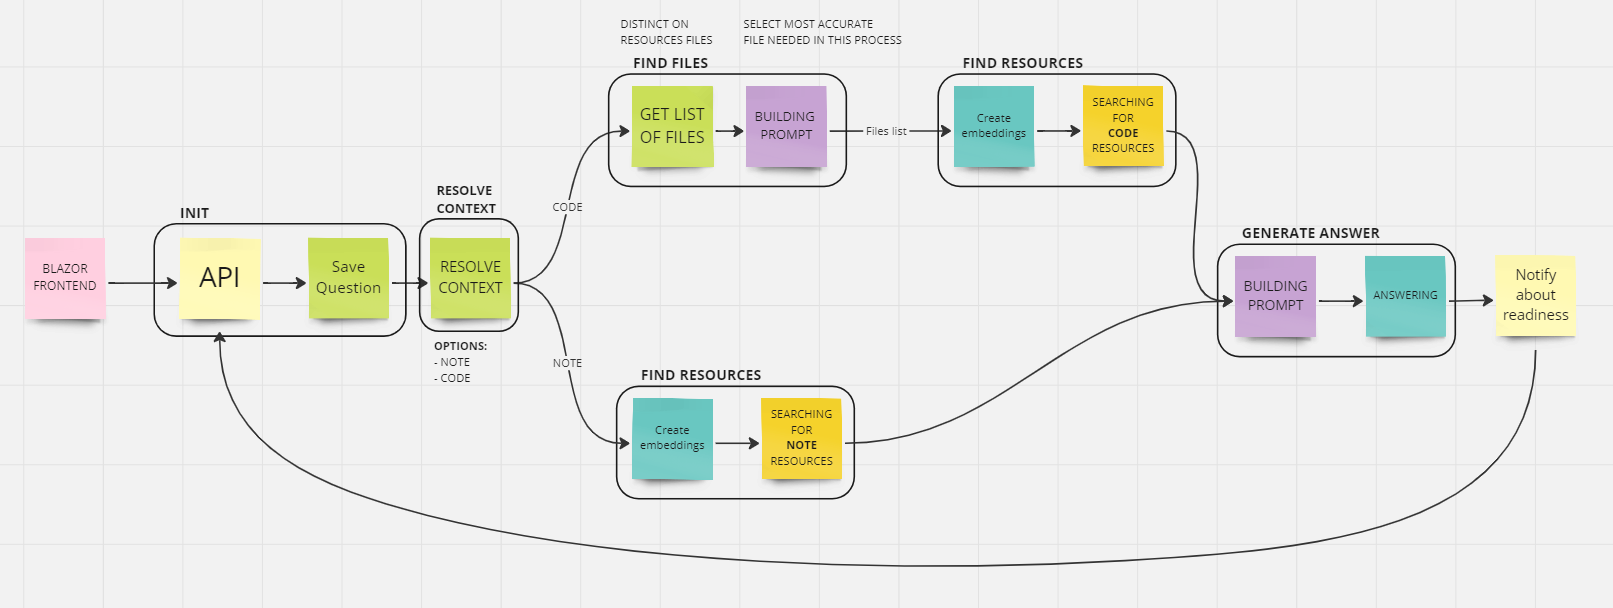
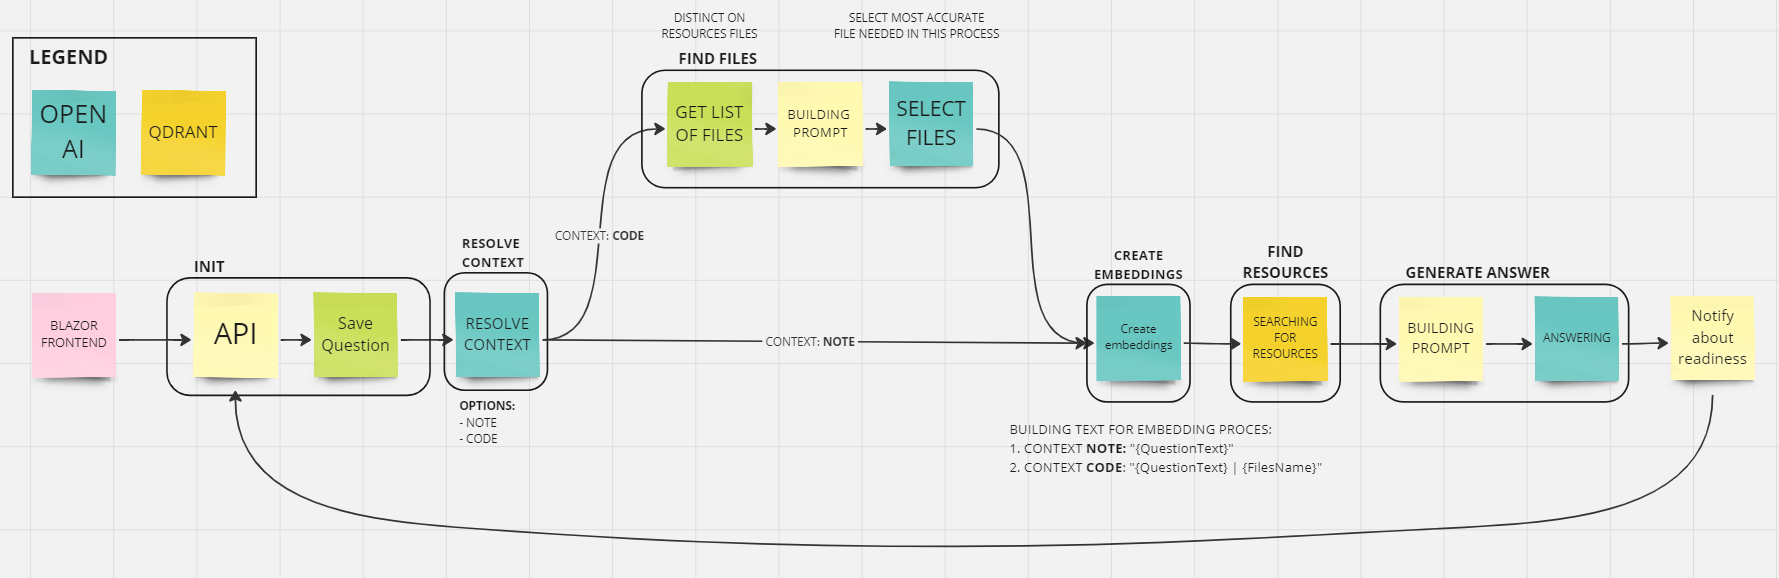
82: Added seperate flow for code generation

diff --git a/API/ASSISTENTE.Infrastructure/Services/QuestionOrchestrator.cs b/API/ASSISTENTE.Infrastructure/Services/QuestionOrchestrator.cs
@@ -14,7 +14,6 @@ using ASSISTENTE.Infrastructure.Qdrant;
 using ASSISTENTE.Infrastructure.Qdrant.Models;
 using ASSISTENTE.Language.Enums;
 using ASSISTENTE.Language.Identifiers;
-
 using AnswerEntity = ASSISTENTE.Domain.Entities.Answers.Answer;
 
 namespace ASSISTENTE.Infrastructure.Services;
@@ -43,30 +42,7 @@ public sealed class QuestionOrchestrator(
             .Check(question.AddContext)
             .Check(_ => questionRepository.UpdateAsync(question));
     }
-
-    public async Task<Result> FindResources(Question question)
-    {
-        return await EmbeddingText.Create(question.Text) // 3. Create embedding
-            .Bind(embeddingClient.GetAsync)
-            .Check(dto => question.AddEmbeddings(dto.Embeddings))
-            .Bind(dto =>
-            {
-                return question.GetContext()
-                    .Bind(context => VectorDto.Create(CollectionName(context), dto.Embeddings));
-            })
-            .Bind(qdrantService.SearchAsync) // 4. Search for resources
-            .Bind(searchResult =>
-            {
-                var resourceIds = searchResult.Select(x => new ResourceId(x.ResourceId));
-
-                return resourceRepository
-                    .FindByResourceIdsAsync(resourceIds)
-                    .ToResult(KnowledgeServiceErrors.NotFound.Build());
-            })
-            .Check(question.AddResources) // 5. Save selected resources to question (save in DB for audit purpose)
-            .Check(_ => questionRepository.UpdateAsync(question));
-    }
-
+    
     public async Task<Result> FindFiles(Question question)
     {
         return await question.GetContext()
@@ -75,30 +51,60 @@ public sealed class QuestionOrchestrator(
                 .GetFileNames(resourceType)
                 .ToResult(KnowledgeServiceErrors.NotFound.Build())
             )
-            .Bind(fileNames => PromptInput.Create(question.Text, fileNames, PromptType.Files))
+            .Map(fileNames => string.Join(Environment.NewLine, fileNames))
+            .Bind(promptContext => PromptInput.Create(question.Text, promptContext, PromptType.Files))
             .Bind(promptGenerator.GeneratePrompt)
             .Bind(Prompt.Create)
             .Bind(async prompt =>
             {
                 var answer = await llmClient.GenerateAnswer(prompt)
-                    .Check(answer => QuestionFile.Create(answer.Text) // TODO: Validate answer
+                    .Check(answer => QuestionFile.Create(answer.Text)
                         .Check(question.AddFiles));
-                
+
                 return answer;
             })
             .Check(_ => questionRepository.UpdateAsync(question))
             .Map(answer => answer.Text);
     }
-
-    public async Task<Result<string>> GenerateAnswer(Question question)
+    
+    public async Task<Result> CreateEmbedding(Question question)
     {
-        var contextContent = question.Resources.Select(x => x.Resource).Select(x => x.Content);
-
+        return await question.BuildEmbeddableText()
+            .Bind(EmbeddingText.Create) // 3. Create embedding
+            .Bind(embeddingClient.GetAsync)
+            .Check(dto => question.AddEmbeddings(dto.Embeddings))
+            .Check(_ => questionRepository.UpdateAsync(question));
+    }
+    
+    public async Task<Result> FindResources(Question question)
+    {
         return await question.GetContext()
             .Bind(context =>
             {
-                return GetPromptType(context) // 6. Generate prompt
-                    .Bind(promptType => PromptInput.Create(question.Text, contextContent, promptType))
+                return question.GetEmbeddings()
+                    .Bind(embeddings => VectorDto.Create(CollectionName(context), embeddings))
+                    .Bind(qdrantService.SearchAsync) // 4. Search for resources
+                    .Bind(searchResult =>
+                    {
+                        var resourceIds = searchResult.Select(x => new ResourceId(x.ResourceId));
+
+                        return resourceRepository
+                            .FindByResourceIdsAsync(resourceIds)
+                            .ToResult(KnowledgeServiceErrors.NotFound.Build());
+                    })
+                    .Check(question.AddResources) // 5. Save selected resources to question
+                    .Check(_ => questionRepository.UpdateAsync(question));
+            });
+    }
+
+    public async Task<Result<string>> GenerateAnswer(Question question)
+    {
+        return await question.GetContext()
+            .Bind(GetPromptType)
+            .Bind(promptType =>
+            {
+                return question.BuildContext()
+                    .Bind(promptContext => PromptInput.Create(question.Text, promptContext, promptType)) // 6. Generate prompt
                     .Bind(promptGenerator.GeneratePrompt)
                     .Bind(Prompt.Create)
                     .Bind(prompt =>
@@ -112,8 +118,7 @@ public sealed class QuestionOrchestrator(
                                     answer.Audit.PromptTokens,
                                     answer.Audit.CompletionTokens
                                 )
-                                .Check(question.AddAnswer));
-                        // 8. Save answer to question (save in DB for audit purpose)
+                                .Check(question.AddAnswer)); // 8. Save answer to question 
 
                         return answer;
                     })
@@ -130,10 +135,10 @@ public sealed class QuestionOrchestrator(
 
         var result = await Prompt.Create(promptText)
             .Bind(llmClient.GenerateAnswer);
-        
+
         if (result.IsFailure)
             return Result.Failure<TContext>(result.Error);
-        
+
         try
         {
             var source = (TContext)Enum.Parse(typeof(TContext), result.Value.Text);

diff --git a/API/ASSISTENTE.Application/Handlers/Questions/Commands/CreateEmbeddingsCommand.cs b/API/ASSISTENTE.Application/Handlers/Questions/Commands/CreateEmbeddingsCommand.cs
@@ -1,0 +1,44 @@
+using ASSISTENTE.Application.Abstractions.Clients;
+using ASSISTENTE.Application.Abstractions.Interfaces;
+using ASSISTENTE.Application.Handlers.Bases;
+using ASSISTENTE.Domain.Entities.Questions;
+using ASSISTENTE.Domain.Entities.Questions.Interfaces;
+using ASSISTENTE.Language.Enums;
+using ASSISTENTE.Language.Identifiers;
+using CSharpFunctionalExtensions;
+using MediatR;
+using Microsoft.Extensions.Logging;
+
+namespace ASSISTENTE.Application.Handlers.Questions.Commands
+{
+    public sealed class CreateEmbeddingsCommand : IRequest<Result>
+    {
+        private CreateEmbeddingsCommand(QuestionId questionId)
+        {
+            QuestionId = questionId;
+        }
+
+        public QuestionId QuestionId { get; }
+
+        public static CreateEmbeddingsCommand Create(QuestionId questionId)
+        {
+            return new CreateEmbeddingsCommand(questionId);
+        }
+    }
+
+    public class CreateEmbeddingsCommandHandler(
+        IQuestionOrchestrator questionOrchestrator,
+        IQuestionRepository questionRepository,
+        IAssistenteClientInternal clientInternal,
+        ILogger<CreateEmbeddingsCommand> logger) : QuestionCommandBase<CreateEmbeddingsCommand>(logger, clientInternal)
+    {
+        protected override async Task<Result> HandleAsync(Question question)
+            => await questionOrchestrator.CreateEmbedding(question);
+
+        protected override async Task<Maybe<Question>> GetQuestionAsync(CreateEmbeddingsCommand request)
+            => await questionRepository.GetByIdAsync(request.QuestionId);
+
+        protected override QuestionProgress InitialProgress => QuestionProgress.CreatingEmbeddings;
+        protected override QuestionProgress FinalProgress => QuestionProgress.EmbeddingsCreated;
+    }
+}

diff --git a/API/ASSISTENTE.Domain/Entities/Questions/Question.cs b/API/ASSISTENTE.Domain/Entities/Questions/Question.cs
@@ -82,6 +82,8 @@ public sealed class Question : AuditableEntity<QuestionId>
     {
         Embeddings = embeddings.ToList();
 
+        RaiseEvent(new EmbeddingsCreatedEvent(Id));
+
         return Result.Success();
     }
 
@@ -112,9 +114,34 @@ public sealed class Question : AuditableEntity<QuestionId>
             ? Context.ToString()!
             : Result.Failure<string>(QuestionErrors.ContextNotProvided.Build());
     }
+    
+    public Result<List<float>> GetEmbeddings()
+    {
+        return Embeddings ?? Result.Failure<List<float>>(QuestionErrors.EmbeddingsNotCreated.Build());
+    }
 
     public Result<string> GetAnswer()
     {
         return Answer?.Text ?? Result.Failure<string>(QuestionErrors.AnswerNotExist.Build());
+    }
+
+    public Result<string> BuildEmbeddableText()
+    {
+        var fileNames = Files.Select(x => x.Text);
+        
+        return Context switch
+        {
+            QuestionContext.Note => Text,
+            QuestionContext.Code => $"{Text} | {string.Join(", ", fileNames)}",
+            QuestionContext.Error => Result.Failure<string>(QuestionErrors.WrongContext.Build()),
+            _ => Result.Failure<string>(QuestionErrors.ContextNotProvided.Build())
+        };
+    }
+    
+    public Result<string> BuildContext()
+    {
+        var resourcesContent = Resources.Select(x => x.Resource).Select(x => x.Content);
+
+        return string.Join(Environment.NewLine, resourcesContent);
     }
 }

diff --git a/API/ASSISTENTE.Infrastructure.PromptGenerator/ValueObjects/PromptInput.cs b/API/ASSISTENTE.Infrastructure.PromptGenerator/ValueObjects/PromptInput.cs
@@ -5,19 +5,19 @@ namespace ASSISTENTE.Infrastructure.PromptGenerator.ValueObjects;
 
 public sealed class PromptInput
 {
-    private PromptInput(string prompt, IEnumerable<string> context, PromptType type)
+    private PromptInput(string question, string context, PromptType type)
     {
-        Prompt = prompt;
+        Question = question;
         Context = context;
         Type = type;
     }
     
-    public string Prompt { get; }
-    public IEnumerable<string> Context { get; }
+    public string Question { get; }
+    public string Context { get; }
     public PromptType Type { get; }
     
-    public static Result<PromptInput> Create(string prompt, IEnumerable<string> context, PromptType type)
+    public static Result<PromptInput> Create(string question, string context, PromptType type)
     {
-        return new PromptInput(prompt, context, type);
+        return new PromptInput(question, context, type);
     }
 }

diff --git a/API/ASSISTENTE.Infrastructure.PromptGenerator/Prompts/FilePrompt.cs b/API/ASSISTENTE.Infrastructure.PromptGenerator/Prompts/FilePrompt.cs
@@ -7,7 +7,7 @@ internal class FilePrompt : IPrompt
 {
     public PromptType Type => PromptType.Files;
 
-    public string Generate(string question, IEnumerable<string> context)
+    public string Generate(string question, string context)
     {
         var prompt = $"""
                       You have obtained the following requirement for implementation:
@@ -21,7 +21,7 @@ internal class FilePrompt : IPrompt
                       Based on the file list, select most appropriate files and answer the question as best as you can and truthfully.
 
                       ### files list
-                      {string.Join("\n", context)}
+                      {context}
                       ###
                       
                       ### Example

diff --git a/API/ASSISTENTE.Infrastructure.PromptGenerator/Prompts/CodePrompt.cs b/API/ASSISTENTE.Infrastructure.PromptGenerator/Prompts/CodePrompt.cs
@@ -7,7 +7,7 @@ internal class CodePrompt : IPrompt
 {
     public PromptType Type => PromptType.Code;
 
-    public string Generate(string question, IEnumerable<string> context)
+    public string Generate(string question, string context)
     {
         var prompt = $"""
                       You have obtained the following requirement for implementation:
@@ -21,7 +21,7 @@ internal class CodePrompt : IPrompt
                       Based on the code fragments below, prepare solution proposals, answer them as best as you can and truthfully.
 
                       ### code fragments
-                      {string.Join("\n", context)}
+                      {context}
                       ###
                       """;
 

diff --git a/API/ASSISTENTE.Infrastructure.PromptGenerator/Prompts/QuestionPrompt.cs b/API/ASSISTENTE.Infrastructure.PromptGenerator/Prompts/QuestionPrompt.cs
@@ -7,7 +7,7 @@ internal class QuestionPrompt : IPrompt
 {
     public PromptType Type => PromptType.Question;
 
-    public string Generate(string question, IEnumerable<string> context)
+    public string Generate(string question, string context)
     {
         var prompt = $"""
                       You received the following question:
@@ -21,7 +21,7 @@ internal class QuestionPrompt : IPrompt
                       Based on the context below, answer them as best as you can and truthfully.
 
                       ### context
-                      {string.Join("\n", context)}
+                      {context}
                       ###
                       """;
 

diff --git a/API/ASSISTENTE.Worker.Sync/Consumers/OnCreateEmbeddingsMessageConsumer.cs b/API/ASSISTENTE.Worker.Sync/Consumers/OnCreateEmbeddingsMessageConsumer.cs
@@ -1,0 +1,14 @@
+using ASSISTENTE.Application.Handlers.Questions.Commands;
+using ASSISTENTE.Contract.Messages.Internal.Knowledge;
+using ASSISTENTE.Worker.Sync.Common.Bases;
+using MediatR;
+
+namespace ASSISTENTE.Worker.Sync.Consumers;
+
+public sealed class OnCreateEmbeddingsMessageConsumer(
+    ILogger<OnCreateEmbeddingsMessageConsumer> logger, 
+    ISender mediator) : ResultConsumerBase<CreateEmbeddingsMessage, CreateEmbeddingsCommand>(logger, mediator)
+{
+    protected override CreateEmbeddingsCommand MediatRequest(CreateEmbeddingsMessage message)
+        => CreateEmbeddingsCommand.Create(message.QuestionId);
+}

diff --git a/API/ASSISTENTE.EventHandlers/Questions/OnEmbeddingsCreatedEvent.cs b/API/ASSISTENTE.EventHandlers/Questions/OnEmbeddingsCreatedEvent.cs
@@ -1,0 +1,17 @@
+using ASSISTENTE.Contract.Messages.Internal.Knowledge;
+using ASSISTENTE.Domain.Entities.Questions.Events;
+using MassTransit;
+using MediatR;
+
+namespace ASSISTENTE.EventHandlers.Questions;
+
+public sealed class OnEmbeddingsCreatedEvent(IPublishEndpoint publishEndpoint)
+    : INotificationHandler<EmbeddingsCreatedEvent>
+{
+    public Task Handle(EmbeddingsCreatedEvent notification, CancellationToken cancellationToken)
+    {
+        publishEndpoint.Publish(new FindResourcesMessage(notification.QuestionId), cancellationToken);
+
+        return Task.CompletedTask;
+    }
+}

diff --git a/API/ASSISTENTE.EventHandlers/Questions/OnFilesAttachedEvent.cs b/API/ASSISTENTE.EventHandlers/Questions/OnFilesAttachedEvent.cs
@@ -1,0 +1,17 @@
+using ASSISTENTE.Contract.Messages.Internal.Knowledge;
+using ASSISTENTE.Domain.Entities.Questions.Events;
+using MassTransit;
+using MediatR;
+
+namespace ASSISTENTE.EventHandlers.Questions;
+
+public sealed class OnFilesAttachedEvent(IPublishEndpoint publishEndpoint)
+    : INotificationHandler<FilesAttachedEvent>
+{
+    public Task Handle(FilesAttachedEvent notification, CancellationToken cancellationToken)
+    {
+        publishEndpoint.Publish(new CreateEmbeddingsMessage(notification.QuestionId), cancellationToken);
+
+        return Task.CompletedTask;
+    }
+}

diff --git a/API/ASSISTENTE.Language/Enums/QuestionProgress.cs b/API/ASSISTENTE.Language/Enums/QuestionProgress.cs
@@ -3,16 +3,21 @@ namespace ASSISTENTE.Language.Enums;
 public enum QuestionProgress
 {
     Init = 1,
+    
     ResolvingContext = 2,
     ContextResolved = 3,
     
     SearchingForFiles = 4,
     FilesFound = 5,
     
-    SearchingForResources = 6,
-    ResourcesFound = 7,
+    CreatingEmbeddings = 6,
+    EmbeddingsCreated = 7,
     
-    Answering = 8,
-    Answered = 9,
-    Ready = 10
+    SearchingForResources = 8,
+    ResourcesFound = 9,
+    
+    Answering = 10,
+    Answered = 11,
+    
+    Ready = 12
 }

diff --git a/API/ASSISTENTE.Application.Abstractions/Interfaces/IQuestionOrchestrator.cs b/API/ASSISTENTE.Application.Abstractions/Interfaces/IQuestionOrchestrator.cs
@@ -7,7 +7,8 @@ public interface IQuestionOrchestrator
 {
     public Task<Result<Question>> InitQuestion(string questionText, string? connectionId);
     public Task<Result> ResolveContext(Question question);
-    public Task<Result> FindResources(Question question);
+    public Task<Result> CreateEmbedding(Question question);
     public Task<Result> FindFiles(Question question);
+    public Task<Result> FindResources(Question question);
     public Task<Result<string>> GenerateAnswer(Question question);
 }
